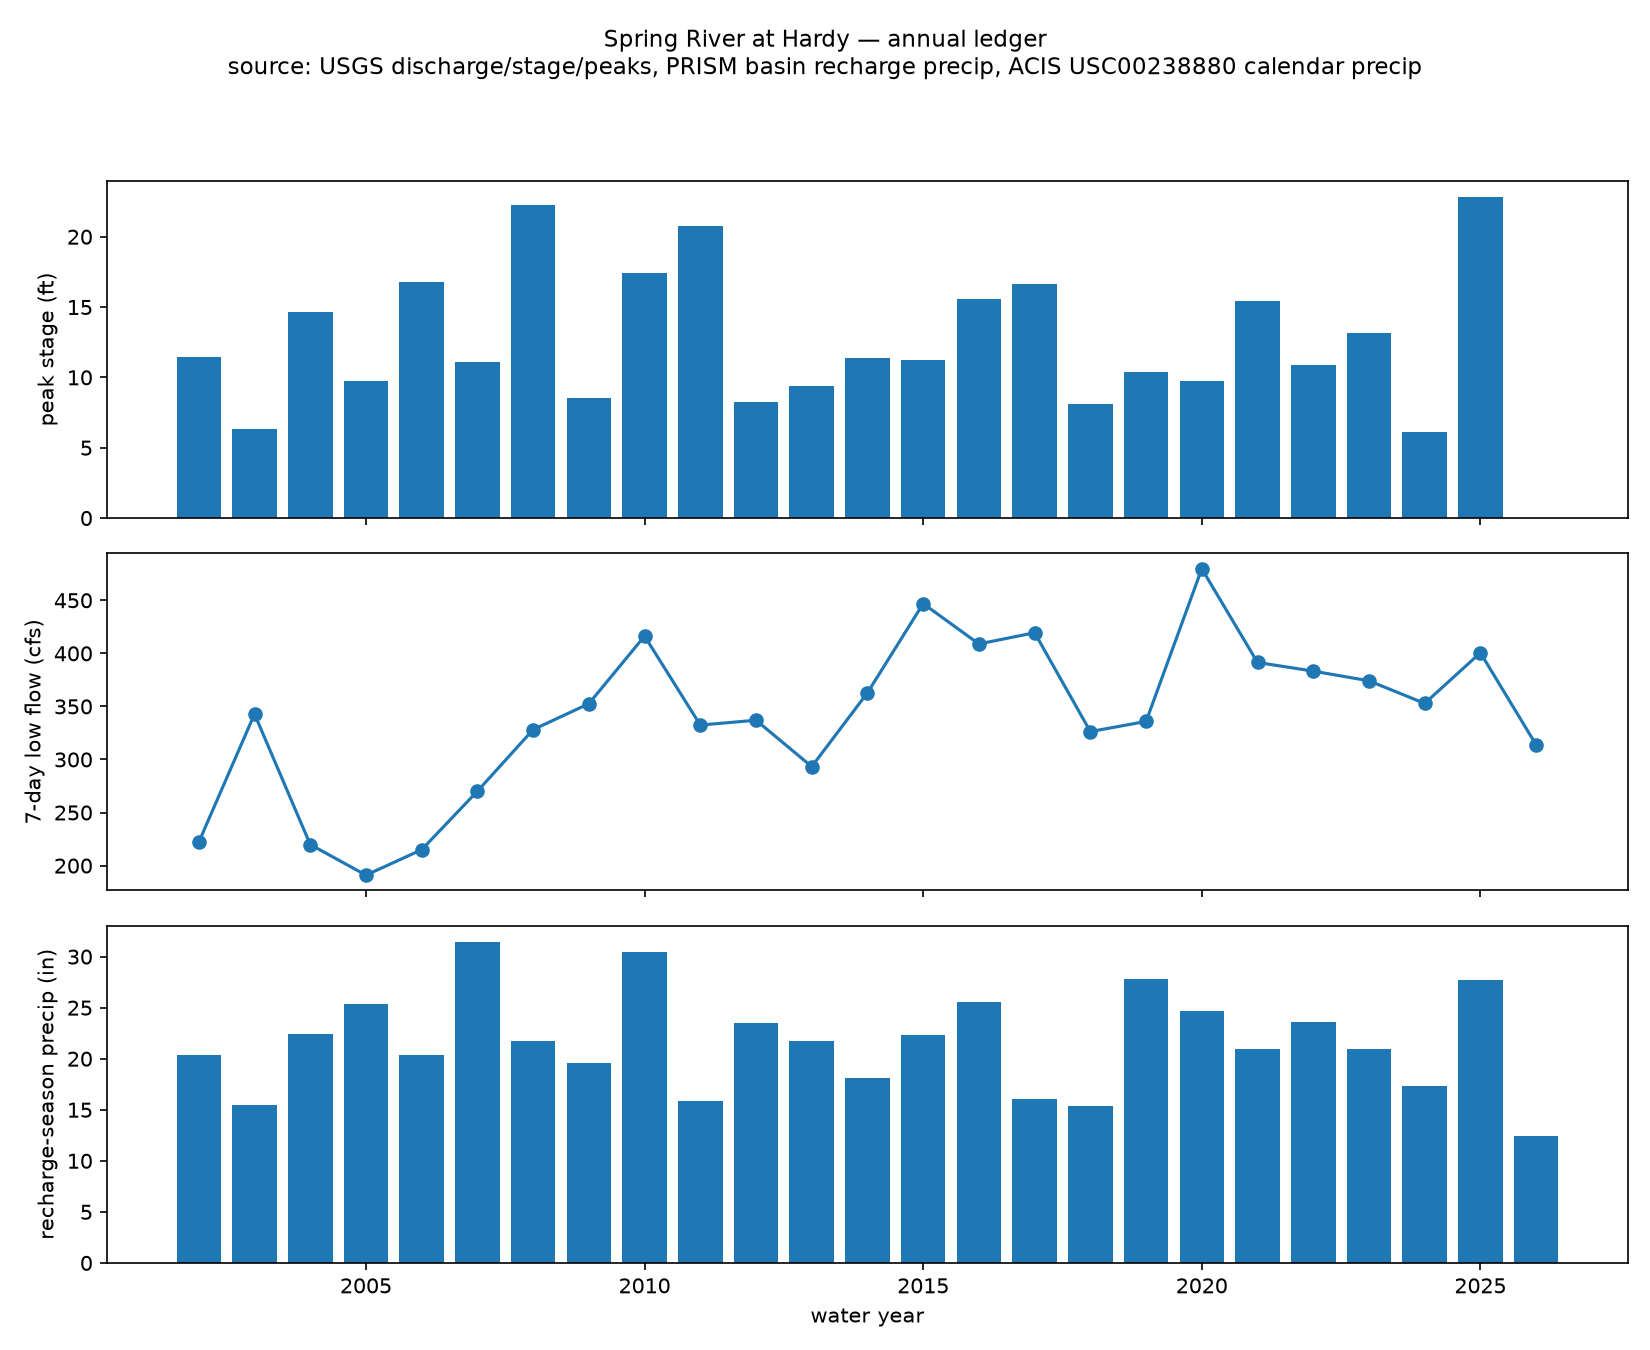
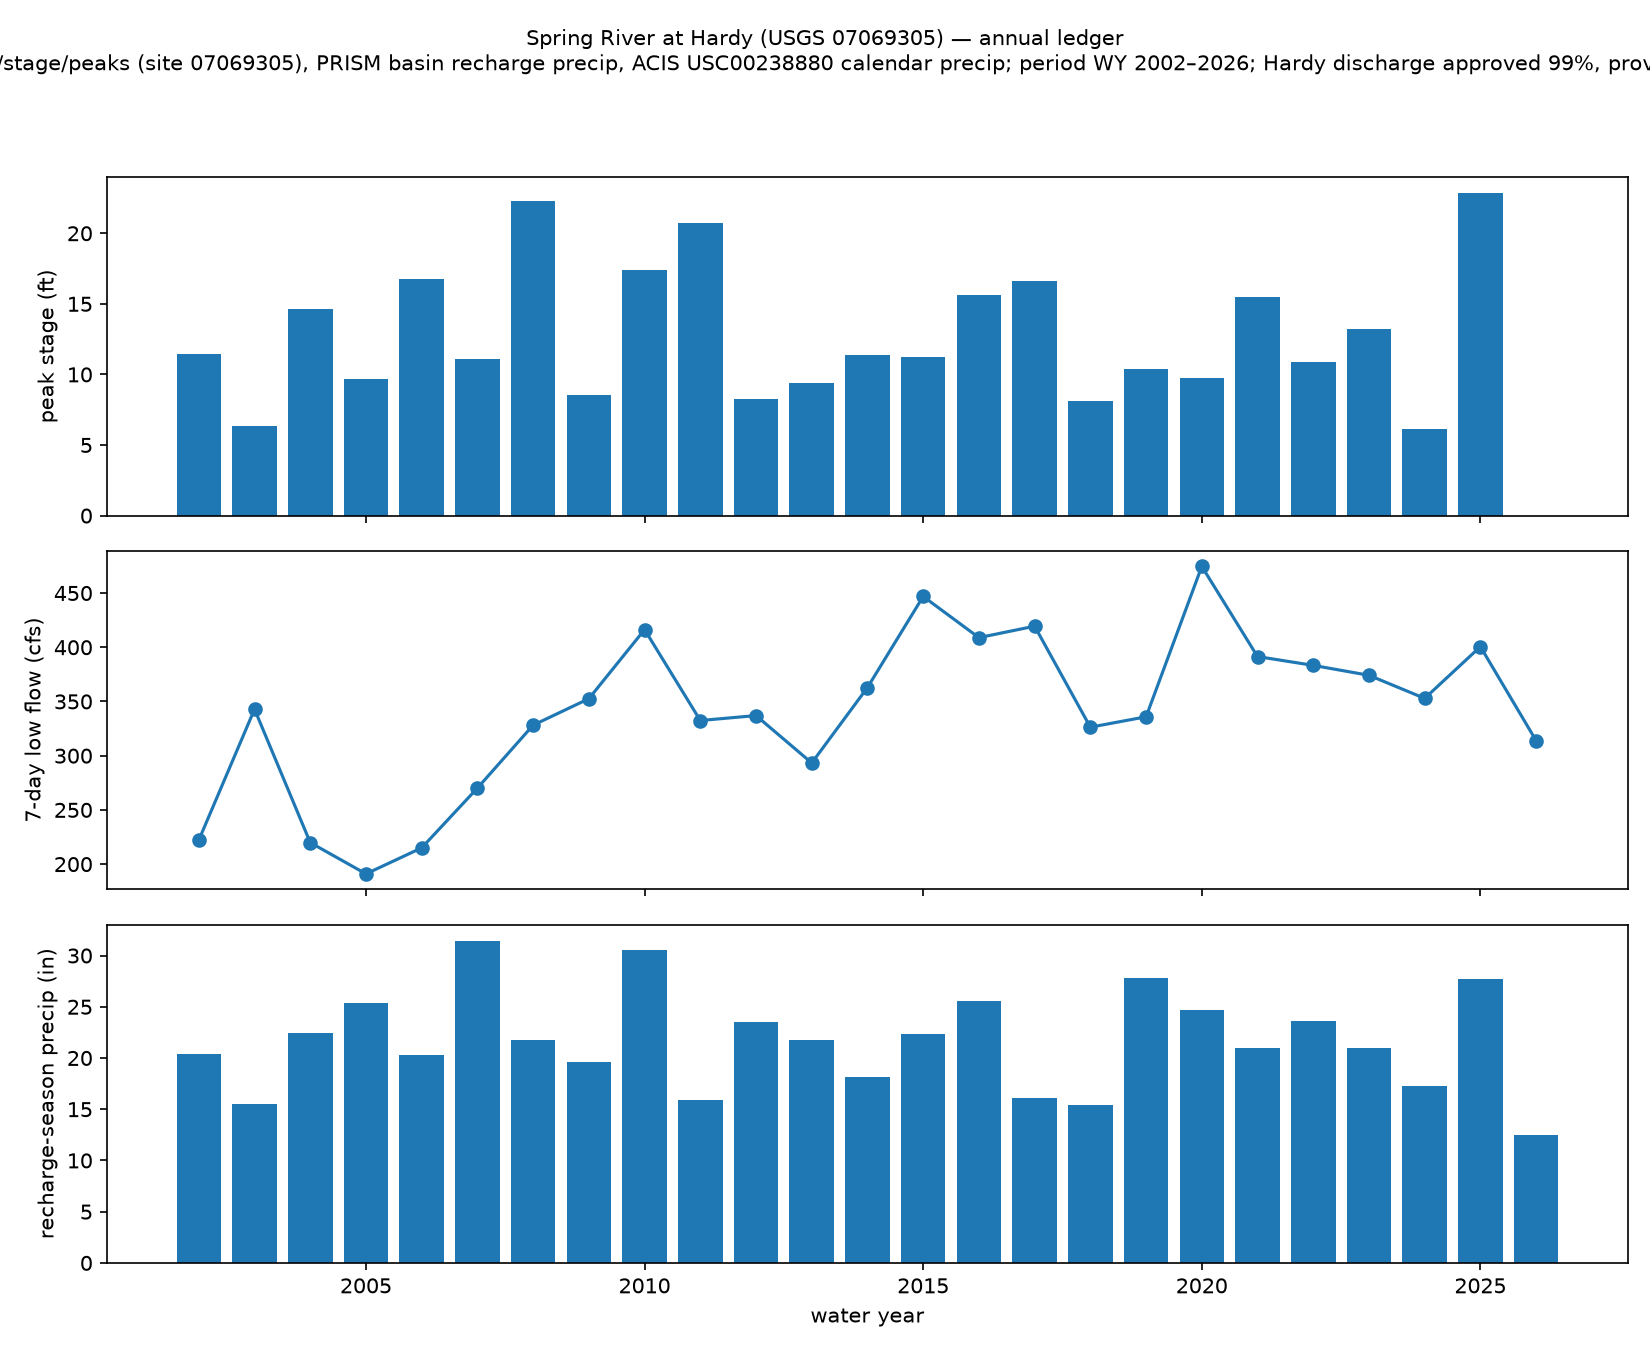
fix(study): final-review fixes — whole-series min7, QA limitations, Mammoth QA, captions, precip completeness
C1: build_ledger now computes min7 once on the whole discharge series
before grouping by water year, fixing per-WY reindexing that silently
dropped the first 6 days of every WY from 7-day-minimum consideration
(WY2020 min7_cfs: 479.71 -> 474.571429, matching the verified true value).

I1/I3: qa_report.md gains a Limitations section covering the missing
USGS datum/rating-shift history, the daily-max-of-IV stand-in for Hardy
daily stage, the gap-boundary convention, and precip gap detection being
bounded by each series' own span.

I2: Mammoth Spring vent (07069190) discharge added to the QA checks list.

I4: figure captions (ledger + QA residuals) now state source, period,
and approval status.

I5: ledger gains additive precip_cal_days column (non-NaN day count per
calendar year) so precip_cal_in's raw-sum nature is checkable.

Plus five one-line comments on known-tricky asymmetries (DV vs IV
timezone handling, NWPS flow=0, USGS 503 retry via caching, min7 skipna
semantics, find_gaps boundary convention).

diff --git a/spring-river-study/src/spring_river/qa/report.py b/spring-river-study/src/spring_river/qa/report.py
@@ -2,6 +2,7 @@
 from datetime import date
 
 import matplotlib
+import pandas as pd
 
 matplotlib.use("Agg")
 import matplotlib.pyplot as plt
@@ -13,6 +14,7 @@ from spring_river.config import (
     PARAM_STAGE,
     SITE_HARDY,
     SITE_IMBODEN,
+    SITE_MAMMOTH,
     START_DATE,
 )
 from spring_river.hydro.wateryear import daily_max_stage
@@ -32,10 +34,15 @@ def main() -> None:
         (SITE_HARDY, "Hardy", "discharge", lambda: usgs.get_dv(SITE_HARDY, PARAM_DISCHARGE, START_DATE, end)),
         (SITE_IMBODEN, "Imboden", "discharge", lambda: usgs.get_dv(SITE_IMBODEN, PARAM_DISCHARGE, START_DATE, end)),
         (SITE_HARDY, "Hardy", "stage (daily max of IV)", lambda: daily_max_stage(usgs.get_iv(SITE_HARDY, PARAM_STAGE, IV_START, end))),
+        (SITE_MAMMOTH, "Mammoth Spring vent", "discharge", lambda: usgs.get_dv(SITE_MAMMOTH, PARAM_DISCHARGE, START_DATE, end)),
     ]
     for site, label, pname, load in checks:
         df = load()
         series[(label, pname)] = df
+        # find_gaps reports gap_start/gap_end as the first/last MISSING day
+        # of each run (not the last-good/next-good days bracketing it) — see
+        # the "Limitations and deferred QA items" section below for the
+        # stated convention.
         gaps = find_gaps(df)
         appr = approval_summary(df)
         lines += [
@@ -52,9 +59,21 @@ def main() -> None:
     xc = hardy_vs_imboden(
         series[("Hardy", "discharge")], series[("Imboden", "discharge")]
     )
+    hardy_appr = approval_summary(series[("Hardy", "discharge")])
     fig, ax = plt.subplots(figsize=(10, 4))
     ax.plot(xc["date"], xc["residual"], lw=0.5)
-    ax.set_title("Hardy vs Imboden log-discharge regression residuals")
+    ax.set_title(
+        f"Hardy ({SITE_HARDY}) vs Imboden ({SITE_IMBODEN}) log-discharge "
+        "regression residuals\n"
+        f"source: USGS DV discharge; period {xc['date'].min().date()}–"
+        f"{xc['date'].max().date()}; Hardy approved {hardy_appr['approved_frac']:.0%}"
+        + (
+            f", provisional from {hardy_appr['provisional_from'].date()}"
+            if hardy_appr["provisional_from"] is not None
+            else ""
+        ),
+        fontsize=9,
+    )
     ax.set_ylabel("log10 residual")
     fig.savefig(FIGURES_DIR / "qa_hardy_imboden_residuals.png", dpi=150)
     z = (xc["residual"] - xc["residual"].mean()) / xc["residual"].std()
@@ -113,6 +132,38 @@ def main() -> None:
             "Single precip station configured — homogeneity check skipped; documented per spec risk #6.",
             "",
         ]
+
+    lines += [
+        "## Limitations and deferred QA items",
+        "",
+        "- **USGS datum and rating-shift history** (spec §2.1 / risk #4) has "
+        "NOT yet been obtained for Hardy. Stage-discharge rating changes over "
+        "1981–2026 could alter the stage-to-flow relationship independent of "
+        "any hydrologic trend; Q5 (any claim relating stage thresholds to "
+        "flow) currently rests solely on IV-derived stage-at-flow readings, "
+        "not on the official rating history. Any conclusion sensitive to "
+        "rating shifts must be flagged provisional until this is obtained.",
+        "- **Hardy daily stage** has no USGS daily-stage product. This report "
+        "uses the daily MAX of instantaneous (IV) stage readings "
+        f"(`daily_max_stage`), defined only for WY {pd.Timestamp(IV_START).year + 1}"
+        " onward (IV_START = "
+        f"{IV_START}). A daily max is systematically greater than or equal to "
+        "a daily mean, so Hardy stage-threshold day-counts in this report "
+        "are an upper bound relative to a mean-based daily-stage product.",
+        "- **Gap boundary convention**: every gap table in this report "
+        "(`find_gaps`) reports `gap_start`/`gap_end` as the first and last "
+        "MISSING day of the run — not the last good day before the gap or "
+        "the next good day after it. Stated once here; `find_gaps` itself is "
+        "unchanged.",
+        "- **Precipitation gap detection is series-bounded**: gap tables for "
+        "each ACIS precip series are computed only within that series' own "
+        "first-to-last observed date range. A station with a later start "
+        "date (e.g. KUNO, ASOS from 1998) is not flagged as 'gapped' for the "
+        "years before its record begins — that absence is a coverage limit, "
+        "not a gap, and must be read from the station's stated span above, "
+        "not from its gap table.",
+        "",
+    ]
 
     (DOCS_DIR / "qa_report.md").write_text("\n".join(lines))
     print("wrote docs/qa_report.md")

diff --git a/spring-river-study/src/spring_river/hydro/ledger.py b/spring-river-study/src/spring_river/hydro/ledger.py
@@ -32,7 +32,15 @@ Fix round 1 (2026-08-24), two behaviours:
 
 Output columns, in order: `wy`, `peak_stage_ft`, `peak_cfs`, `days_ge_8ft`,
 `days_ge_10ft`, `days_ge_14ft`, `days_ge_16ft`, `min7_cfs`, `bfi`,
-`precip_cal_in`, `precip_recharge_in`, `complete`.
+`precip_cal_in`, `precip_cal_days`, `precip_recharge_in`, `complete`.
+
+`precip_cal_in` (I5): a RAW SUM of daily `pcpn_in` values for the calendar
+year — it is not adjusted for missing days. `precip_cal_days` is the
+additive int count of non-NaN `pcpn_in` days that went into that sum (max
+365, or 366 in a leap year). Any consumer of `precip_cal_in` MUST check
+`precip_cal_days` before comparing totals across years or treating a low
+total as meaningful — a year with many missing days will show an
+artificially low sum, not zero rainfall.
 """
 from datetime import date
 
@@ -69,6 +77,17 @@ def build_ledger(
     stage = dv_stage.assign(wy=water_year(dv_stage["date"]))
     pk = peaks.assign(wy=water_year(peaks["date"]))
 
+    # C1 fix (2026-08-24): min7 must be computed ONCE on the whole discharge
+    # series, not per-WY-group. A rolling(7, min_periods=7) window that ends
+    # on day 1-6 of a water year needs the trailing days of the PRIOR water
+    # year to exist in its input; grouping by WY first (and reindexing each
+    # group to its own extent) makes those early-WY windows impossible to
+    # form, silently dropping the first 6 days of every water year from
+    # consideration. Computing min7 on the whole series and then looking up
+    # by WY preserves cross-boundary windows (each window is assigned to the
+    # WY of its ENDING day — see hydro.wateryear.min7).
+    min7_all = min7(dv_q[["date", "value"]])
+
     rows = []
     for wy, grp in q.groupby("wy"):
         st = stage[stage["wy"] == wy]["value"]
@@ -92,15 +111,16 @@ def build_ledger(
                 "days_ge_10ft": int((st >= th["minor"]).sum()) if has_stage else pd.NA,
                 "days_ge_14ft": int((st >= th["moderate"]).sum()) if has_stage else pd.NA,
                 "days_ge_16ft": int((st >= th["major"]).sum()) if has_stage else pd.NA,
-                "min7_cfs": min7(grp[["date", "value"]]).get(wy, pd.NA),
+                "min7_cfs": min7_all.get(wy, pd.NA),
                 "bfi": bfi(qv) if len(qv) > 30 else pd.NA,
                 "precip_cal_in": cal.sum() if len(cal) else pd.NA,
+                "precip_cal_days": int(cal.notna().sum()),
                 "precip_recharge_in": recharge.sum() if len(recharge) else pd.NA,
                 "complete": complete,
             }
         )
     out = pd.DataFrame(rows).sort_values("wy").reset_index(drop=True)
-    for col in ("days_ge_8ft", "days_ge_10ft", "days_ge_14ft", "days_ge_16ft"):
+    for col in ("days_ge_8ft", "days_ge_10ft", "days_ge_14ft", "days_ge_16ft", "precip_cal_days"):
         out[col] = out[col].astype("Int64")
     return out
 
@@ -126,6 +146,16 @@ def main() -> None:
     PROCESSED_DIR.mkdir(parents=True, exist_ok=True)
     ledger.to_parquet(PROCESSED_DIR / "annual_ledger.parquet")
 
+    # approved fraction of the Hardy discharge series that feeds min7/peak —
+    # I4: figure captions must state approval status.
+    dv_q_approved_frac = float(dv_q["approved"].mean()) if len(dv_q) else float("nan")
+    dv_q_provisional_from = dv_q.loc[~dv_q["approved"], "date"].min() if len(dv_q) else None
+    approval_note = f"Hardy discharge approved {dv_q_approved_frac:.0%}" + (
+        f", provisional from {dv_q_provisional_from.date()}"
+        if pd.notna(dv_q_provisional_from)
+        else ""
+    )
+
     FIGURES_DIR.mkdir(parents=True, exist_ok=True)
     fig, axes = plt.subplots(3, 1, figsize=(11, 9), sharex=True)
     axes[0].bar(ledger["wy"], pd.to_numeric(ledger["peak_stage_ft"], errors="coerce"))
@@ -140,10 +170,12 @@ def main() -> None:
     axes[2].set_ylabel("recharge-season precip (in)")
     axes[2].set_xlabel("water year")
     fig.suptitle(
-        "Spring River at Hardy — annual ledger\n"
-        "source: USGS discharge/stage/peaks, PRISM basin recharge precip, "
-        "ACIS USC00238880 calendar precip",
-        fontsize=11,
+        f"Spring River at Hardy (USGS {SITE_HARDY}) — annual ledger\n"
+        f"source: USGS discharge/stage/peaks (site {SITE_HARDY}), PRISM basin "
+        f"recharge precip, ACIS USC00238880 calendar precip; "
+        f"period WY {int(ledger['wy'].min())}–{int(ledger['wy'].max())}; "
+        f"{approval_note}",
+        fontsize=10,
     )
     fig.tight_layout(rect=(0, 0, 1, 0.94))
     fig.savefig(FIGURES_DIR / "annual_ledger.png", dpi=150)

diff --git a/spring-river-study/tests/test_ledger.py b/spring-river-study/tests/test_ledger.py
@@ -37,6 +37,8 @@ def test_ledger_one_water_year():
     assert abs(row["precip_recharge_in"] - 18.2) < 0.11
     # calendar 2020 station total = 366 * 0.1
     assert abs(row["precip_cal_in"] - 36.6) < 1e-6
+    # 2020 is a leap year; all 366 calendar days have non-NaN pcpn_in
+    assert row["precip_cal_days"] == 366
     # discharge runs through 2020-09-30 -> water year is complete
     assert row["complete"] == True
 
@@ -60,3 +62,46 @@ def test_ledger_partial_water_year_is_not_complete():
     ledger = build_ledger(dv_q, dv_stage, peaks, precip, basin, thresholds)
     row = ledger[ledger["wy"] == 2020].iloc[0]
     assert row["complete"] == False
+
+
+def test_ledger_min7_window_spans_water_year_boundary():
+    """C1: a per-WY-group min7 (old, buggy behavior) reindexes each WY's
+    discharge to its own extent, so rolling(7, min_periods=7) can never
+    produce a window ending on days 1-6 of that WY (no prior-WY days exist
+    to fill the window). The whole-series min7 must be computed once before
+    grouping so windows that end early in a WY but start in the prior WY are
+    still considered, and are correctly assigned to the ENDING day's WY.
+
+    Two consecutive water years (WY2020: Oct 2019-Sep 2020; WY2021: Oct
+    2020-Sep 2021) with low flow 2020-09-28..2020-10-04 (7 days spanning the
+    WY boundary). The window ending 2020-10-04 (all 7 low days) belongs to
+    WY2021 and is lower than anything else in WY2021, so it must be
+    WY2021's min7_cfs. Fails on the old per-WY-group implementation because
+    that window straddles the WY2020/WY2021 boundary and never exists when
+    each WY is reindexed independently.
+    """
+    dates = pd.date_range("2019-10-01", "2021-09-30", freq="D")
+    values = pd.Series(400.0, index=dates)
+    low_dates = pd.date_range("2020-09-28", "2020-10-04", freq="D")
+    values.loc[low_dates] = 50.0
+    dv_q = pd.DataFrame({"date": dates, "value": values.values, "approved": True})
+
+    stage = pd.Series(5.0, index=range(len(dates)))
+    dv_stage = pd.DataFrame({"date": dates, "value": stage.values, "approved": True})
+
+    peaks = pd.DataFrame(
+        {
+            "date": pd.Series([], dtype="datetime64[ns]"),
+            "peak_cfs": pd.Series([], dtype="float64"),
+            "gage_ht_ft": pd.Series([], dtype="float64"),
+        }
+    )
+    pdates = pd.date_range("2019-01-01", "2021-12-31", freq="D")
+    precip = pd.DataFrame({"date": pdates, "pcpn_in": 0.1})
+    basin = pd.DataFrame({"date": pdates, "pcpn_in": 0.1})
+    thresholds = {"action": 8.0, "minor": 10.0, "moderate": 14.0, "major": 16.0}
+
+    ledger = build_ledger(dv_q, dv_stage, peaks, precip, basin, thresholds)
+    row_2021 = ledger[ledger["wy"] == 2021].iloc[0]
+    # the 7-day window ending 2020-10-04 is entirely the low-flow days -> mean 50.0
+    assert row_2021["min7_cfs"] == 50.0

diff --git a/spring-river-study/src/spring_river/hydro/wateryear.py b/spring-river-study/src/spring_river/hydro/wateryear.py
@@ -12,6 +12,16 @@ def min7(df: pd.DataFrame) -> pd.Series:
 
     Uses complete 7-day windows only (min_periods=7): windows touching a data
     gap are excluded rather than interpolated (spec: never interpolate).
+
+    Must be called on the WHOLE series (not a per-water-year slice): a
+    rolling window is free to span a water-year boundary (e.g. start in late
+    September and end in early October) and is assigned to the water year of
+    its ENDING day. Reindexing to a single water year's own extent before
+    rolling silently makes those boundary-spanning windows impossible to
+    form. `.groupby(wy).min()` uses pandas' default skipna=True intentionally
+    — a WY with at least one complete 7-day window should return that
+    window's minimum even if other windows in the WY are NaN (touch a gap);
+    a WY with NO complete windows correctly reduces to NaN.
     """
     s = df.set_index("date")["value"].sort_index()
     full = s.reindex(pd.date_range(s.index.min(), s.index.max(), freq="D"))

diff --git a/spring-river-study/src/spring_river/ingest/usgs.py b/spring-river-study/src/spring_river/ingest/usgs.py
@@ -16,6 +16,12 @@ def _empty_tidy_frame(datetime_col: str) -> pd.DataFrame:
 
 
 def _tidy_dv(raw: pd.DataFrame, param: str) -> pd.DataFrame:
+    # DV dates are calendar days (tz stripped, not converted) while _tidy_iv
+    # converts to US/Central below — this asymmetry is intentional: NWIS
+    # reports DV against a calendar-day index with no meaningful local time
+    # component, but IV timestamps are instants that must be localized before
+    # being bucketed into calendar days. daily_max_stage() (hydro/wateryear.py)
+    # depends on _tidy_iv's output being tz-naive US/Central, not UTC.
     value_col = f"{param}_Mean"
     cd_col = f"{param}_Mean_cd"
     if raw.empty or value_col not in raw.columns or cd_col not in raw.columns:

diff --git a/spring-river-study/src/spring_river/ingest/pull_all.py b/spring-river-study/src/spring_river/ingest/pull_all.py
@@ -45,6 +45,10 @@ def _pull_iv(site: str, param: str, start: str, end: str) -> pd.DataFrame:
 
 
 def main() -> None:
+    # USGS NWIS occasionally returns transient 503s under load; if this run
+    # dies partway through, just rerun `make data` — fetch_cached persists
+    # each successful pull to data/raw as it completes, so a rerun resumes
+    # from the first uncached item rather than redoing prior work.
     start_time = time.monotonic()
     end = date.today().isoformat()
 

diff --git a/spring-river-study/docs/qa_report.md b/spring-river-study/docs/qa_report.md
@@ -30,6 +30,14 @@
 | 2014-07-08 00:00:00 | 2014-07-20 00:00:00 |     13 |
 | 2014-08-10 00:00:00 | 2014-08-18 00:00:00 |      9 |
 
+## Mammoth Spring vent discharge
+
+- rows: 16616; span 1981-02-25 → 2026-08-23
+- approved fraction: 0.992; provisional from 2026-04-09 00:00:00
+- gaps > 7 days: 0
+
+(none)
+
 ## Hardy vs Imboden cross-check
 
 - overlap days: 8666; |z| > 4 flagged days: 63
@@ -163,3 +171,10 @@
 - mean ratio (USC00238880/KUNO): 1.10
 
 Daily correlation between an ASOS calendar-day series and a COOP station whose observation day ends ~7 AM is expected to be depressed by the observation-time offset; Phase 4 should compare on multi-day or monthly aggregates before treating this as a data-quality problem.
+
+## Limitations and deferred QA items
+
+- **USGS datum and rating-shift history** (spec §2.1 / risk #4) has NOT yet been obtained for Hardy. Stage-discharge rating changes over 1981–2026 could alter the stage-to-flow relationship independent of any hydrologic trend; Q5 (any claim relating stage thresholds to flow) currently rests solely on IV-derived stage-at-flow readings, not on the official rating history. Any conclusion sensitive to rating shifts must be flagged provisional until this is obtained.
+- **Hardy daily stage** has no USGS daily-stage product. This report uses the daily MAX of instantaneous (IV) stage readings (`daily_max_stage`), defined only for WY 2008 onward (IV_START = 2007-10-01). A daily max is systematically greater than or equal to a daily mean, so Hardy stage-threshold day-counts in this report are an upper bound relative to a mean-based daily-stage product.
+- **Gap boundary convention**: every gap table in this report (`find_gaps`) reports `gap_start`/`gap_end` as the first and last MISSING day of the run — not the last good day before the gap or the next good day after it. Stated once here; `find_gaps` itself is unchanged.
+- **Precipitation gap detection is series-bounded**: gap tables for each ACIS precip series are computed only within that series' own first-to-last observed date range. A station with a later start date (e.g. KUNO, ASOS from 1998) is not flagged as 'gapped' for the years before its record begins — that absence is a coverage limit, not a gap, and must be read from the station's stated span above, not from its gap table.
